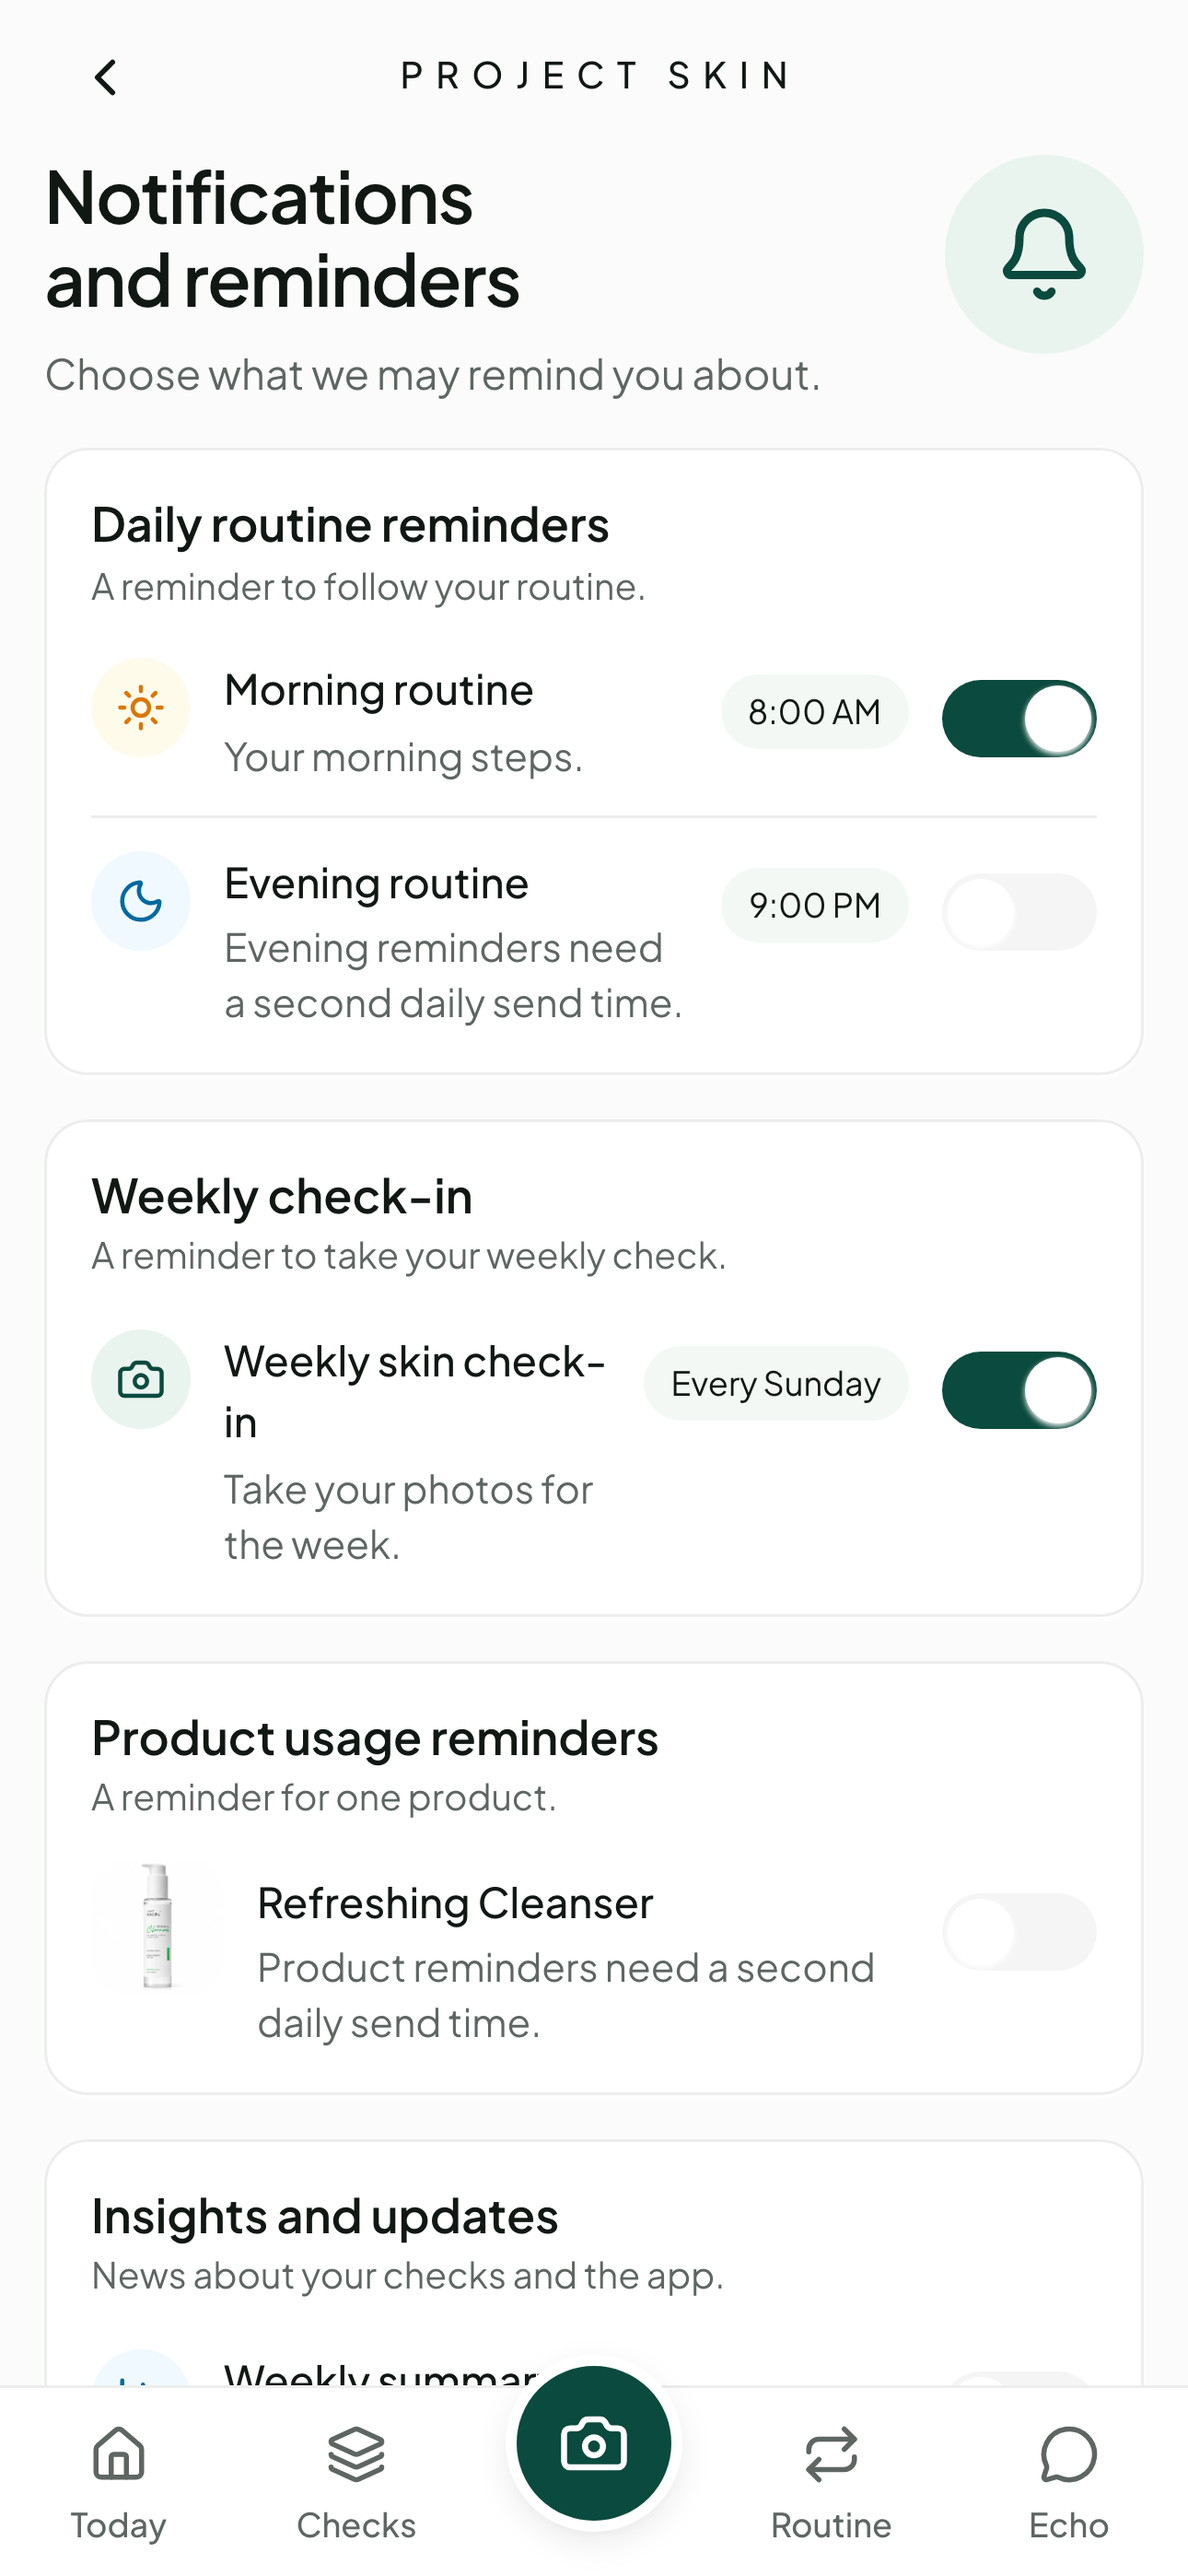
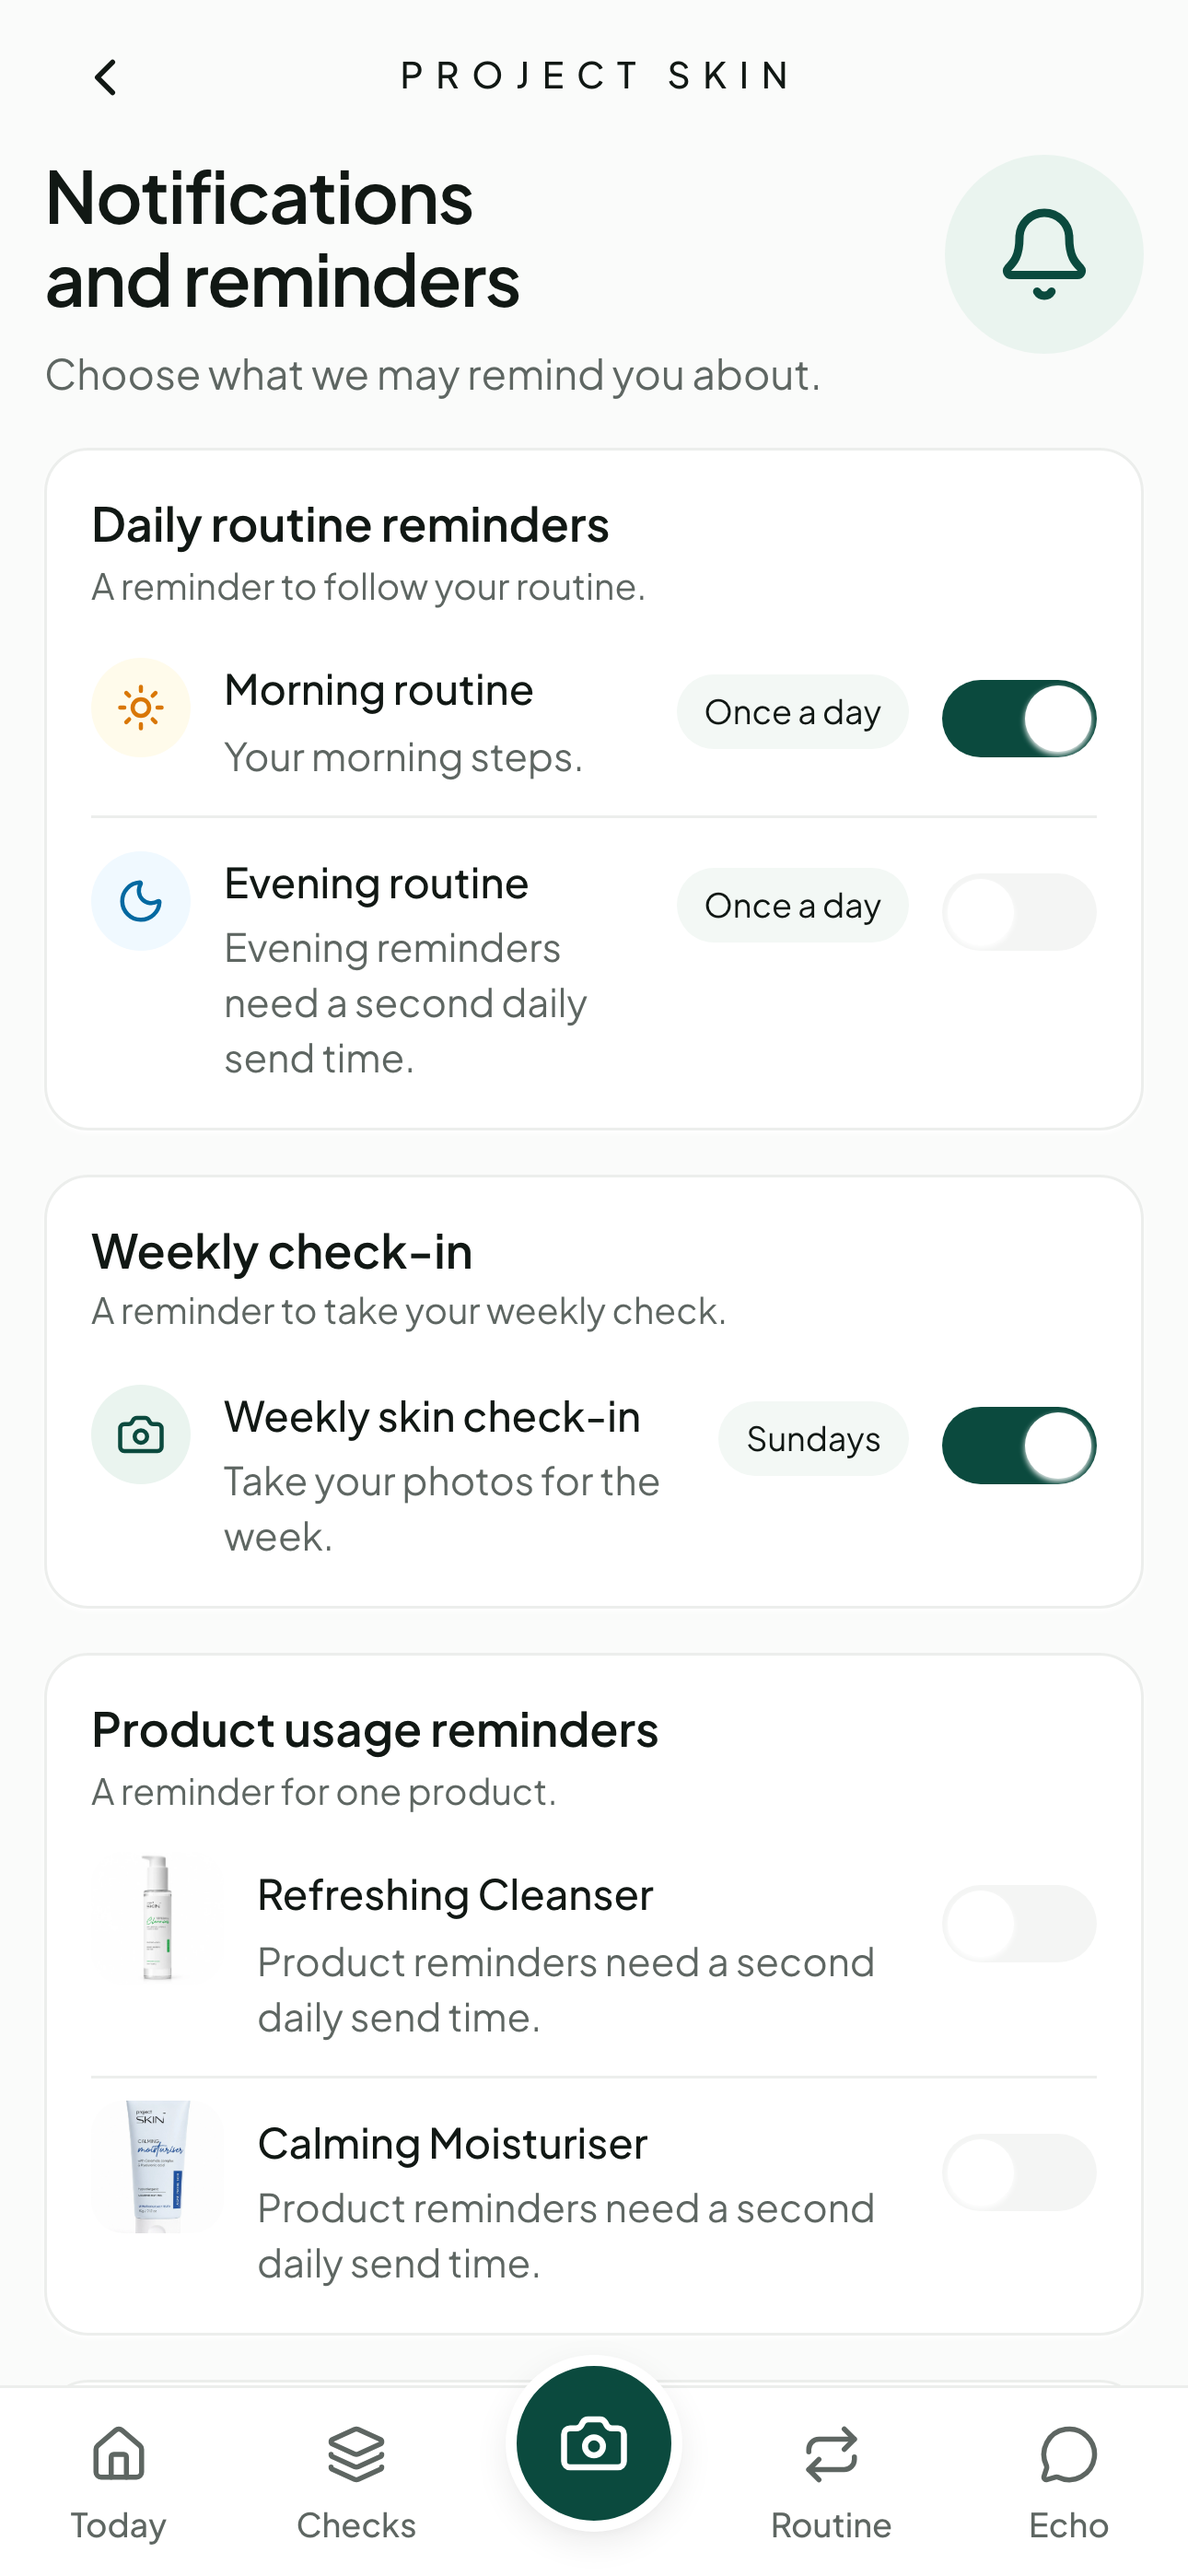
lane ready: E follow-ups (no clock times on 20, routine product rows, name kept), runs and hand-back

diff --git a/docs/lanes/mm-e.md b/docs/lanes/mm-e.md
@@ -39,6 +39,7 @@ Read `docs/lanes/mm-README.md` first. Contracts: `lib/feature-contracts/notifica
 - 20 decisions: the per-type screen replaces the old flagged "Comes later" list; the live daily reminder (TD-47) stays, after the types. Custom reminder and row chevrons left out (no backend, no detail screens). Weekly chip shows the day only (the contract has no weekly time). Product rows are the `prefs.products` keys joined to store titles and first photos (read on the server in `page.tsx`, only with the flag on); no photo → kit `ProductTile`.
 - 22 decisions: mockup lines "We use your information only to…", "encrypted … never shared with third parties" and "Learn more about our privacy practices" left out (untrue or nowhere to link; H36). "Your data" rows only with real destinations; "Lifestyle information" became "Your answers" → `/account?tab=skin`. Consents: the four `CONSENT_TEXTS` switches, each with "Draft wording" (H29); ai_share stays in `ConsentSection` below.
 - BE2 note (orchestrator): export fetches with the ID token and saves a blob; 429 shows when to try again from Retry-After; 403 NOT_ALLOWED named.
+- Follow-ups (orchestrator, after merge 7afc581): 20 shows no clock time ("Once a day" for the routine types, "Sundays" for the weekly check-in; stored times stay in the data only); product reminder rows are the current routine's products (`useRoutine`, the existing `/api/routine/events` read, which returns `currentRoutine`), each on/off from `prefs.products` (default off), disabled with `WAITS_ON.product_usage`; the name stays as typed (owner answer: their own input). Open questions 1-3 are answered by this.
 
 ## Hand-back
 
@@ -85,3 +86,9 @@ None to existing specs. New: `tests/design/e.match.ts` (shots; with flags on it 
 - Flags off, existing account specs: `PW_ARGS="tests/browser/flows.spec.ts tests/browser/dashboard.spec.ts tests/browser/home-v2.spec.ts" bash scripts/with-stack-slot.sh npm run test:browser`: 63 passed.
 - After those runs, `page.tsx` changed only to keep `<AccountView />` as the flag-off element (`tests/privacy-delete-account.test.ts` pins it); unit tests re-run green. Stacks were stopped after each run (the script tears down).
 - Overlays: `python3 -I tests/design/overlay.py /Users/divit/Projects/frontend/skin-check/design/mockups 20 21 22` → `docs/design/mockup-match/{20-notifications,21-profile,22-privacy}.png`.
+
+Follow-up run (commit 175eb30, rebased on 7afc581):
+- `npx tsc --noEmit` pass; `npm run lint` no errors; `npx vitest run` 120 files passed, 23 skipped; 2489 tests passed, 102 skipped.
+- Flags-on `tests/design/e.match.ts` (now also asserts "Once a day" and no clock time): 4 passed.
+- Flags-off `flows.spec.ts`, `dashboard.spec.ts`, `home-v2.spec.ts` (after the `page.tsx` change): 63 passed.
+- Overlay mean diff: 20 = 23.9, 21 = 20.8, 22 = 21.5. Screen 20's remaining differences now also include "Once a day" / "Sundays" in place of the mockup's clock times (no promise the push cannot keep), and product rows from the routine.
